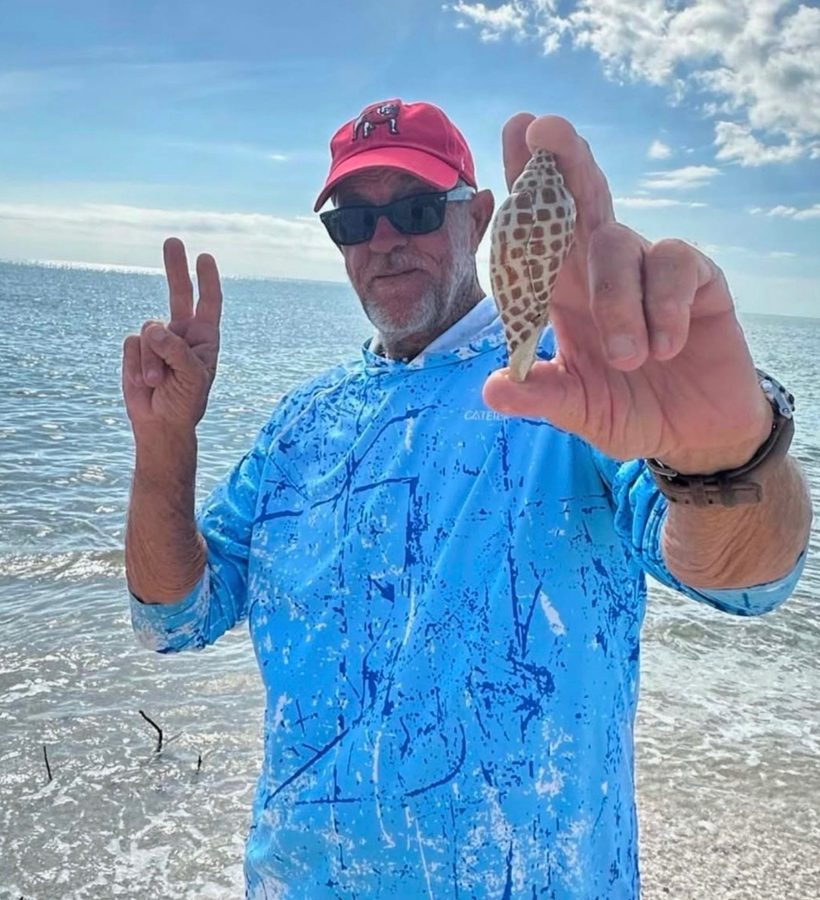
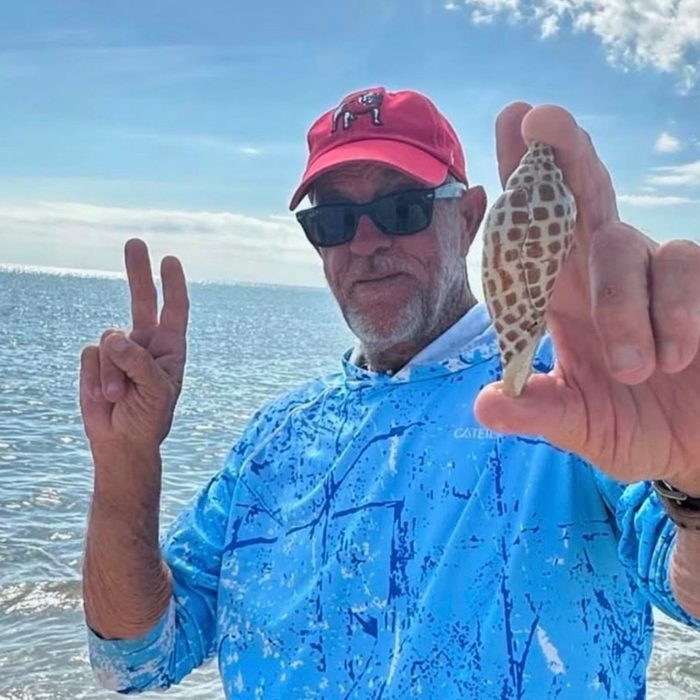
Guide bios + face-framed captain photos (Ed, Joe, Mike)

diff --git a/about_us.html b/about_us.html
@@ -30,9 +30,9 @@
     <div class="section-rule left"></div>
     <p style="font-size:15px;color:var(--text-light);line-height:1.75;max-width:700px;margin-bottom:40px;">Every guide at Marco Island Boat Tours is a certified Florida Master Naturalist &mdash; not just a boat captain with a license. These are educators, researchers, and passionate conservationists who have spent decades learning this ecosystem inside and out.</p>
     <div class="guide-grid">
-      <div class="guide-card"><div class="guide-img"><img src="images/ed-romig.jpg" width="699" height="900" alt="Capt. Ed Romig" loading="lazy"></div><div class="guide-body"><h3>Capt. Ed Romig</h3><div class="guide-title">Master Captain &amp; Florida Master Naturalist &middot; 29 Years</div><p>A 100-ton Master Captain with 29 years guiding the 10,000 Islands and Southwest Florida &mdash; more than 15 of them with Marco Island Boat Tours. A certified Florida Master Naturalist and former conservation officer with Florida Fish &amp; Wildlife, Ed has studied wildlife around the world. He specializes in Southwest Florida&rsquo;s ecosystems and animals, and loves teaching guests about invasive species and the role we all play in protecting the ecosystem.</p></div></div>
-      <div class="guide-card"><div class="guide-img"><img src="images/capt-joe.jpg" width="820" height="900" alt="Capt. Joe" loading="lazy"></div><div class="guide-body"><h3>Capt. Joe</h3><div class="guide-title">Naturalist &middot; 30 Years</div><p>Joe brings 30 years as a captain and specializes in local history and 10,000 Islands ecology. He holds a degree in plant science and entomology and is an expert in the Everglades coastal ecosystem.</p></div></div>
-      <div class="guide-card"><div class="guide-img"><img src="images/capt-mike.jpg" width="675" height="900" alt="Capt. Mike" loading="lazy"></div><div class="guide-body"><h3>Capt. Mike</h3><div class="guide-title">Master Naturalist &amp; Shell Guide</div><p>A Florida Master Naturalist and avid shell guide, Captain Mike has explored and studied our local waters for several decades. Growing up in Southwest Florida gave him firsthand knowledge of how important it is to conserve our natural wildlife.</p></div></div>
+      <div class="guide-card"><div class="guide-img"><img src="images/ed-romig.jpg" width="700" height="700" alt="Capt. Ed Romig" loading="lazy"></div><div class="guide-body"><h3>Capt. Ed Romig</h3><div class="guide-title">Master Captain &amp; Florida Master Naturalist &middot; 29 Years</div><p>A 100-ton Master Captain with 29 years guiding the 10,000 Islands and Southwest Florida &mdash; more than 15 of them with Marco Island Boat Tours. A certified Florida Master Naturalist and former conservation officer with Florida Fish &amp; Wildlife, Ed has studied wildlife around the world. He specializes in Southwest Florida&rsquo;s ecosystems and animals, and loves teaching guests about invasive species and the role we all play in protecting the ecosystem.</p></div></div>
+      <div class="guide-card"><div class="guide-img"><img src="images/capt-joe.jpg" width="700" height="700" alt="Capt. Joe" loading="lazy"></div><div class="guide-body"><h3>Capt. Joe</h3><div class="guide-title">Naturalist &middot; 30 Years</div><p>Joe brings 30 years as a captain and specializes in local history and 10,000 Islands ecology. He holds a degree in plant science and entomology and is an expert in the Everglades coastal ecosystem.</p></div></div>
+      <div class="guide-card"><div class="guide-img"><img src="images/capt-mike.jpg" width="700" height="700" alt="Capt. Mike" loading="lazy"></div><div class="guide-body"><h3>Capt. Mike</h3><div class="guide-title">Master Naturalist &amp; Shell Guide</div><p>A Florida Master Naturalist and avid shell guide, Captain Mike has explored and studied our local waters for several decades. Growing up in Southwest Florida gave him firsthand knowledge of how important it is to conserve our natural wildlife.</p></div></div>
     </div>
   </div>
 </section>

diff --git a/css/main.css b/css/main.css
@@ -517,7 +517,7 @@ button { font-family: var(--font-body); cursor: pointer; border: none; }
 .guide-grid { display: grid; grid-template-columns: repeat(3,1fr); gap: 28px; margin-top: 40px; }
 .guide-card { background: var(--white); border-radius: var(--radius-lg); overflow: hidden; box-shadow: var(--shadow-md); border: 1px solid var(--light-gray); }
 .guide-img { height: 220px; background: var(--primary); overflow: hidden; }
-.guide-img img { width: 100%; height: 100%; object-fit: cover; }
+.guide-img img { width: 100%; height: 100%; object-fit: cover; object-position: center top; }
 .guide-body { padding: 20px; }
 .guide-body h3 { font-family: var(--font-head); font-size: 17px; font-weight: 700; color: var(--dark); margin-bottom: 4px; }
 .guide-title { font-size: 12px; font-weight: 600; color: var(--primary); letter-spacing: 0.08em; text-transform: uppercase; font-family: var(--font-head); margin-bottom: 10px; }
